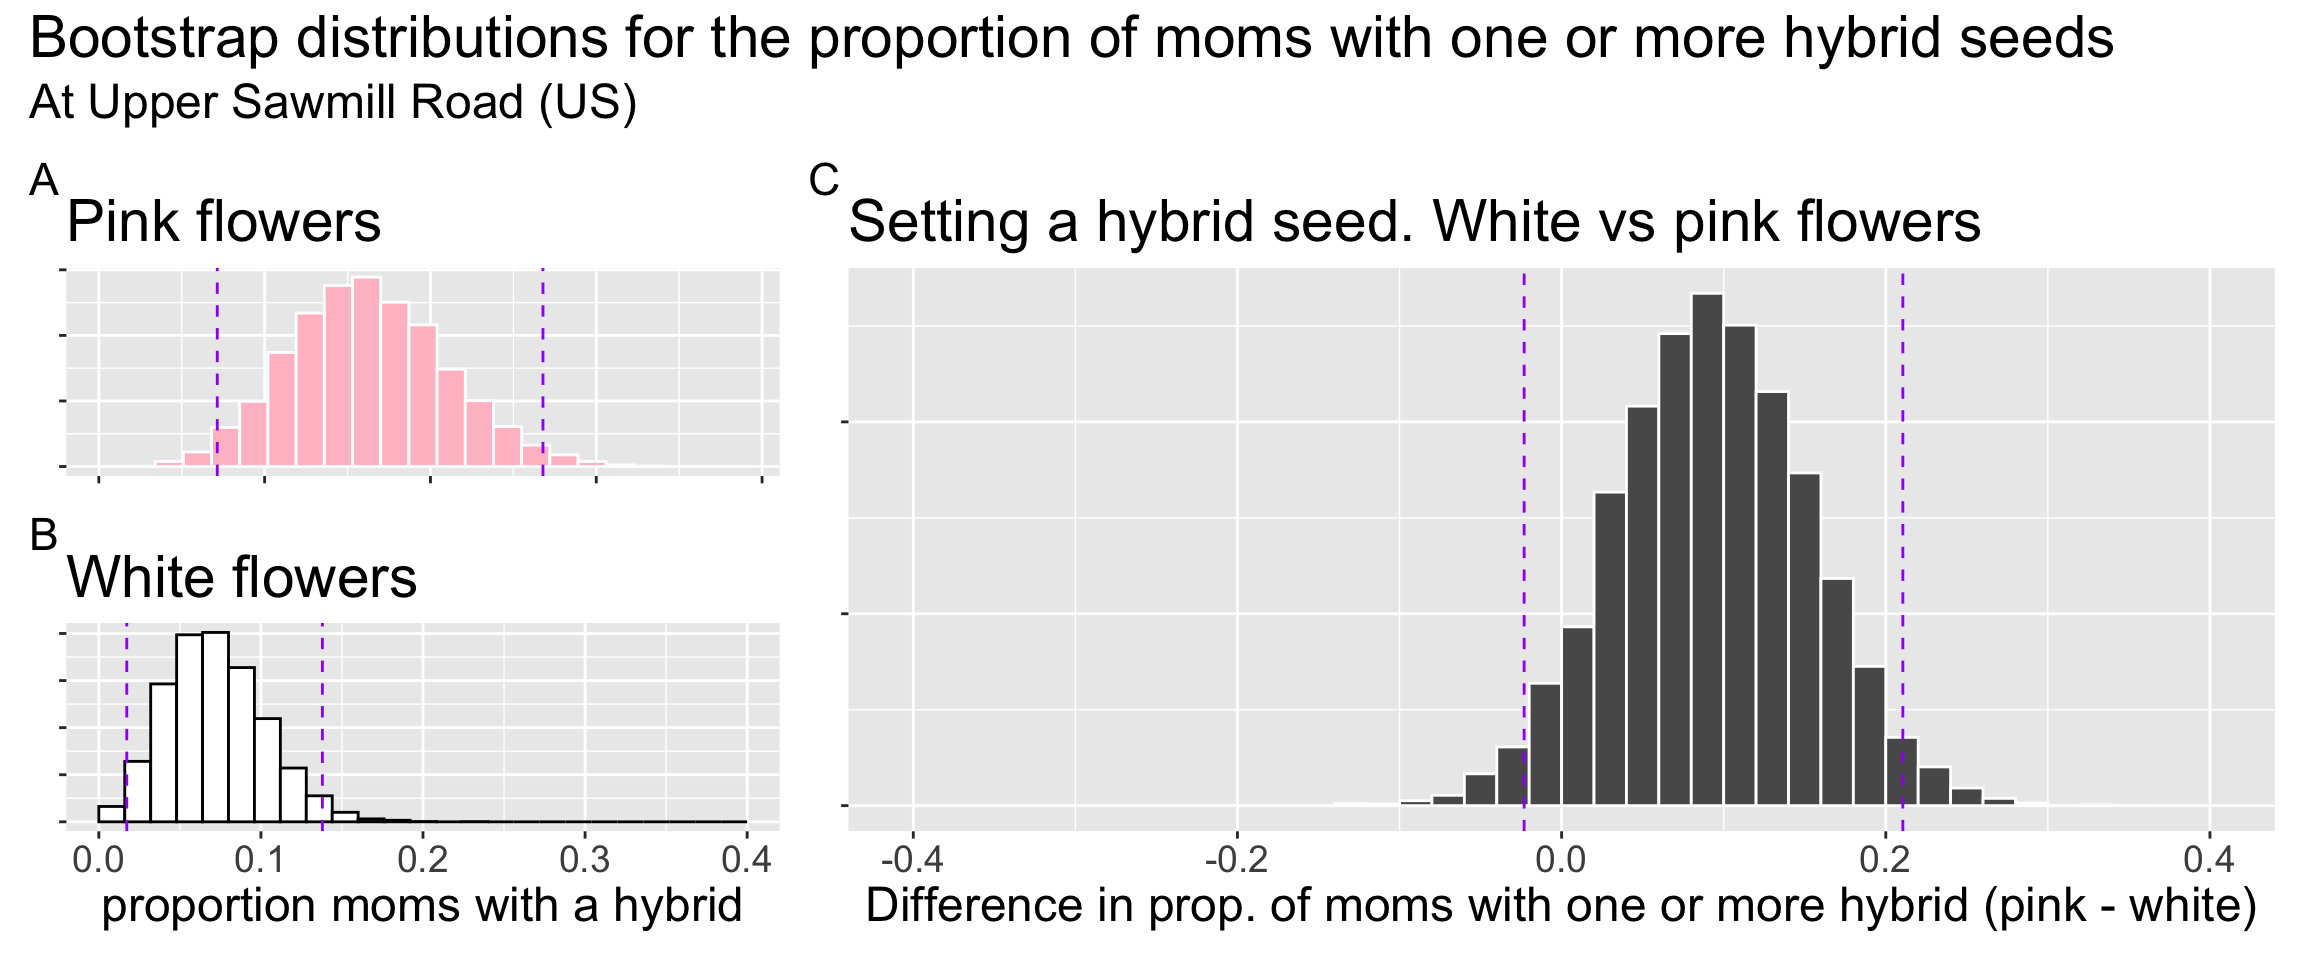
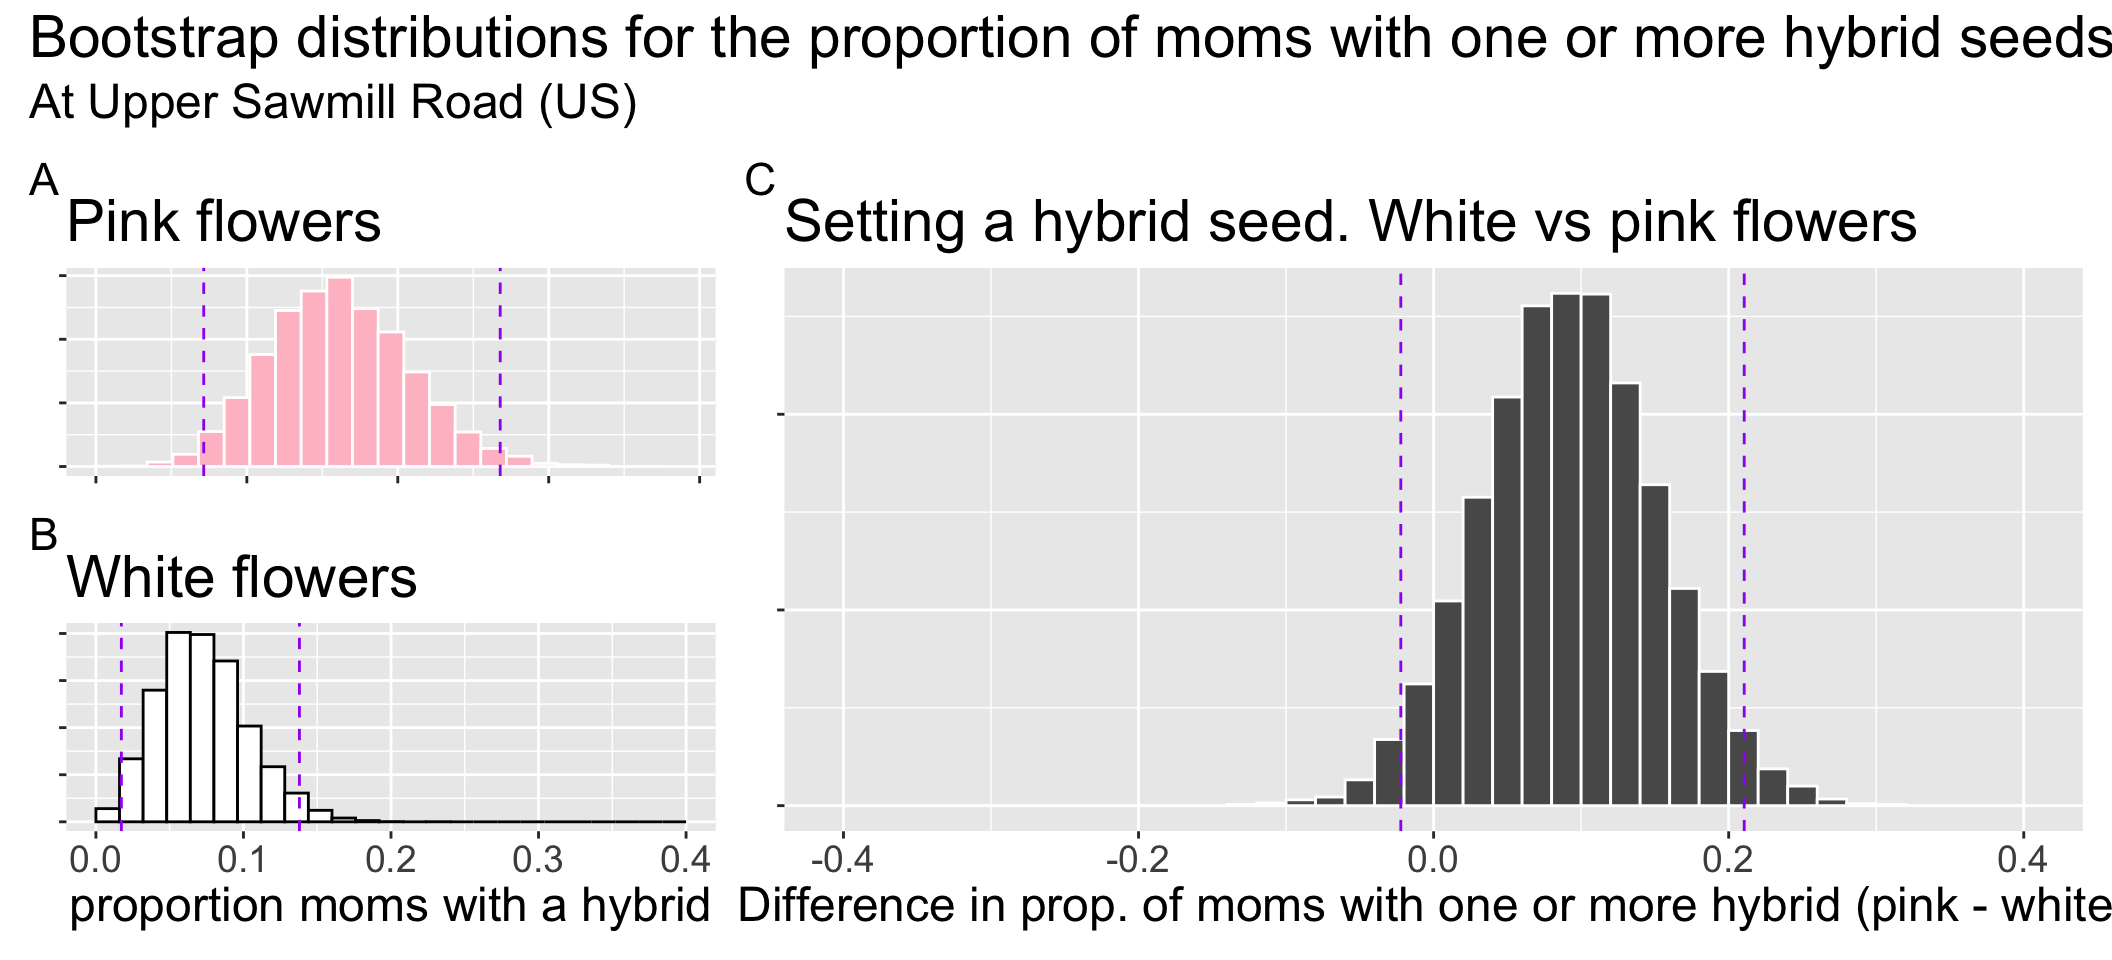
smalfixes to ch13

diff --git a/docs/book_sections/nhst.html b/docs/book_sections/nhst.html
@@ -794,23 +794,23 @@ ul.task-list li input[type="checkbox"] {
 <li>4 of the 58 white-petaled RILs (aka 6.9%) set at least one hybrid seed.</li>
 </ul>
 <p>We may naturally want to compare these values. So, are white-flowered <em>parviflora</em> RILs at Upper Sawmill less likely to have at least one hybrid seed than pink-petaled plants? Let’s consider some ways we could address this question with our tools so far:</p>
-<ul>
+
+<div class="no-row-height column-margin column-container"><div class="margin-aside">
+<p><strong>Let’s get real.</strong> I hand-picked this somewhat strange case to get us thinking about the problem. A direct way to address the plausibility that these two samples came from the same statistical population is to evaluate if the 95% confidence interval of their difference overlaps zero. This is one valid way to perform a hypothesis test. The rest of this chapter will focus on the traditional NHST framework, which uses <strong>p-values</strong> to answer the same question.</p>
+</div></div><ul>
 <li>By simple estimation – 6.9% is way less than 16.1%. But we know by now that must incorporate uncertainty.<br>
 </li>
 <li>Comparing <strong><a href="#fig-us_boot" class="quarto-xref">Figure&nbsp;<span>1</span></a> A</strong> to <strong><a href="#fig-us_boot" class="quarto-xref">Figure&nbsp;<span>1</span></a> B</strong> we see that the 95% confidence intervals of these estimates broadly overlap one another.</li>
 <li>But the more appropriate comparison of the 95% confidence interval of the difference in proportions (<strong><a href="#fig-us_boot" class="quarto-xref">Figure&nbsp;<span>1</span></a> C</strong>) just barely overlaps zero .</li>
 <li>tl/dr it is unclear.</li>
 </ul>
-
-<div class="no-row-height column-margin column-container"><div class="margin-aside">
-<p><strong>Let’s get real.</strong> I hand-picked this somewhat strange case to get us thinking about the problem. A direct way to address the plausibility that these two samples came from the same statistical population is to evaluate if the 95% confidence interval of their difference overlaps zero. This is one valid way to perform a hypothesis test. The rest of this chapter will focus on the traditional NHST framework, which uses <strong>p-values</strong> to answer the same question.</p>
-</div></div><hr>
+<hr>
 <div class="cell page-columns page-full">
 <div class="cell-output-display page-columns page-full">
 <div id="fig-us_boot" class="quarto-float quarto-figure quarto-figure-center anchored page-columns page-full" alt="Three histograms showing bootstrap results for plant reproduction. Panel A shows the distribution for the proportion of pink-flowered plants setting a hybrid seed, centered around 0.15. Panel B shows the same for white-flowered plants, centered around 0.08. Panel C is a larger histogram showing the distribution of the difference in proportions (pink minus white). Vertical dashed lines on this third plot show a 95% confidence interval that only slightly overlaps with zero.">
 <figure class="quarto-float quarto-float-fig figure page-columns page-full">
 <div aria-describedby="fig-us_boot-caption-0ceaefa1-69ba-4598-a22c-09a6ac19f8ca" class="page-columns page-full">
-<img src="nhst_files/figure-html/fig-us_boot-1.png" class="img-fluid figure-img column-page-right" alt="Three histograms showing bootstrap results for plant reproduction. Panel A shows the distribution for the proportion of pink-flowered plants setting a hybrid seed, centered around 0.15. Panel B shows the same for white-flowered plants, centered around 0.08. Panel C is a larger histogram showing the distribution of the difference in proportions (pink minus white). Vertical dashed lines on this third plot show a 95% confidence interval that only slightly overlaps with zero." width="1152">
+<img src="nhst_files/figure-html/fig-us_boot-1.png" class="img-fluid figure-img column-page-right" alt="Three histograms showing bootstrap results for plant reproduction. Panel A shows the distribution for the proportion of pink-flowered plants setting a hybrid seed, centered around 0.15. Panel B shows the same for white-flowered plants, centered around 0.08. Panel C is a larger histogram showing the distribution of the difference in proportions (pink minus white). Vertical dashed lines on this third plot show a 95% confidence interval that only slightly overlaps with zero." width="1056">
 </div>
 <figcaption class="quarto-float-caption-bottom quarto-float-caption quarto-float-fig" id="fig-us_boot-caption-0ceaefa1-69ba-4598-a22c-09a6ac19f8ca">
 Figure&nbsp;1: <strong>A)</strong> The bootstrap distribution for the proportion of pink-flowered plants setting at least one hybrid seed. <strong>B)</strong> The bootstrap for white-flowered plants. <strong>C)</strong> The distribution of the difference in proportions (pink minus white). The 95% confidence interval, shown with dashed purple lines, slightly overlaps with zero. This sets us up for the chapter’s challenge: could the proportion of white and pink moms with one or more hybrid seeds at Upper Sawmill Road plausibly represent samples from the same statistical population?
@@ -824,17 +824,10 @@ Figure&nbsp;1: <strong>A)</strong> The bootstrap distribution for the proportion
 <section id="null-hypothesis-significance-testing" class="level2 page-columns page-full">
 <h2 class="anchored" data-anchor-id="null-hypothesis-significance-testing">Null Hypothesis Significance Testing</h2>
 <p>In principle, in addition to a real effect, sampling bias, non-independent sampling, and sampling error could all lead to a deviation between estimates and true population parameters. <strong>Our goal in null hypotheses significance testing is to see if results are easily explained by sampling error.</strong> That is, <strong>NHST helps us assess whether the differences between our observations and expectations can be attributed to sampling error.</strong></p>
-<div class="cell page-columns page-full">
 
-<div class="no-row-height column-margin column-container"><div class="cell-output-display">
-<blockquote class="tiktok-embed blockquote" cite="https://www.tiktok.com/@canoodleson/video/6876512852643990789" data-video-id="6876512852643990789" data-embed-from="oembed" style="max-width:605px; min-width:325px;"> <section> <a target="_blank" title="@canoodleson" href="https://www.tiktok.com/@canoodleson?refer=embed">@canoodleson</a> <p>Hypotheses and hypothesis testing in stats</p> <a target="_blank" title="♬ original sound - Christina" href="https://www.tiktok.com/music/original-sound-6876512885892287237?refer=embed">♬ original sound - Christina</a> </section> </blockquote> 
-<!--SHINY.SINGLETON[e123f97525dee37cc53ba5b9f17fd3caf1b72842]-->
-<script async="" data-external="1" src="https://www.tiktok.com/embed.js"></script>
-<style>blockquote.tiktok-embed {border:unset;padding:unset;}</style>
-<!--/SHINY.SINGLETON[e123f97525dee37cc53ba5b9f17fd3caf1b72842]-->
-<p>Dont take it from me. Here’s a tictok from professor <a href="https://cknudson.com/">Christina Knudson</a> at St.&nbsp;Thomas.</p>
-</div></div></div>
-<p>In null hypothesis significance testing, we aim to determine how easily our results can be explained by a “null model.” To do this, we follow three key steps:</p>
+<div class="no-row-height column-margin column-container"><div class="cell">
+
+</div></div><p>In null hypothesis significance testing, we aim to determine how easily our results can be explained by a “null model.” To do this, we follow three key steps:</p>
 <ol type="1">
 <li>State the null hypothesis and its alternative (subsection <a href="nhst/statistical_hypotheses.html">Statistical Hypotheses</a>).<br>
 </li>

diff --git a/docs/book_sections/nhst/nhst_gotchas.html b/docs/book_sections/nhst/nhst_gotchas.html
@@ -881,23 +881,11 @@ A: Because that’s what they were taught in college or grad school.</p>
 <p><span class="math display">\[\text{Posterior Probability} = \frac{\text{Likelihood}(\text{Model}|\text{Data}) \times \text{Prior}}{\text{Evidence}}\]</span></p>
 <p>Notably, Bayesian methods allow us to study “credible intervals” — regions with a 95% probability of containing the true population parameter, as opposed to “confidence intervals,” which in frequentist statistics only describe the frequency with which the interval will contain the true parameter in repeated samples.</p>
 </section>
-<div class="cell" type="rmdwarning">
-
-<div class="rmdwarning">
-This is a good time to remember the other assignment and read the <a href="https://www.tandfonline.com/doi/pdf/10.1080/00031305.2016.1154108?needAccess=true">Statement on P-values from the American Statistical Association</a> <span class="citation" data-cites="wasserstein2016">(<a href="../../references.html#ref-wasserstein2016" role="doc-biblioref">Wasserstein &amp; Lazar, 2016</a>)</span>, and the article <a href="https://rss.onlinelibrary.wiley.com/doi/epdf/10.1111/1740-9713.01505">The p-value statement, five years on</a><span class="citation" data-cites="pvalue5years">(<a href="../../references.html#ref-pvalue5years" role="doc-biblioref">Matthews, 2021</a>)</span>.
-</div>
-</div>
 
 
 <div id="refs" class="references csl-bib-body hanging-indent" data-entry-spacing="0" role="list" style="display: none">
 <div id="ref-gelman2017" class="csl-entry" role="listitem">
 Gelman, A., &amp; Carlin, J. (2017). Some natural solutions to the p-value communication problem—and why they won’t work. <em>Journal of the American Statistical Association</em>, <em>112</em>(519), 899–901. <a href="https://doi.org/10.1080/01621459.2017.1311263">https://doi.org/10.1080/01621459.2017.1311263</a>
-</div>
-<div id="ref-pvalue5years" class="csl-entry" role="listitem">
-Matthews, R. (2021). The p-value statement, five years on. <em>Significance</em>, <em>18</em>(2), 16–19. https://doi.org/<a href="https://doi.org/10.1111/1740-9713.01505">https://doi.org/10.1111/1740-9713.01505</a>
-</div>
-<div id="ref-wasserstein2016" class="csl-entry" role="listitem">
-Wasserstein, R. L., &amp; Lazar, N. A. (2016). The ASA statement on p-values: Context, process, and purpose. <em>The American Statistician</em>, <em>70</em>(2), 129–133. <a href="https://doi.org/10.1080/00031305.2016.1154108">https://doi.org/10.1080/00031305.2016.1154108</a>
 </div>
 </div>
 
